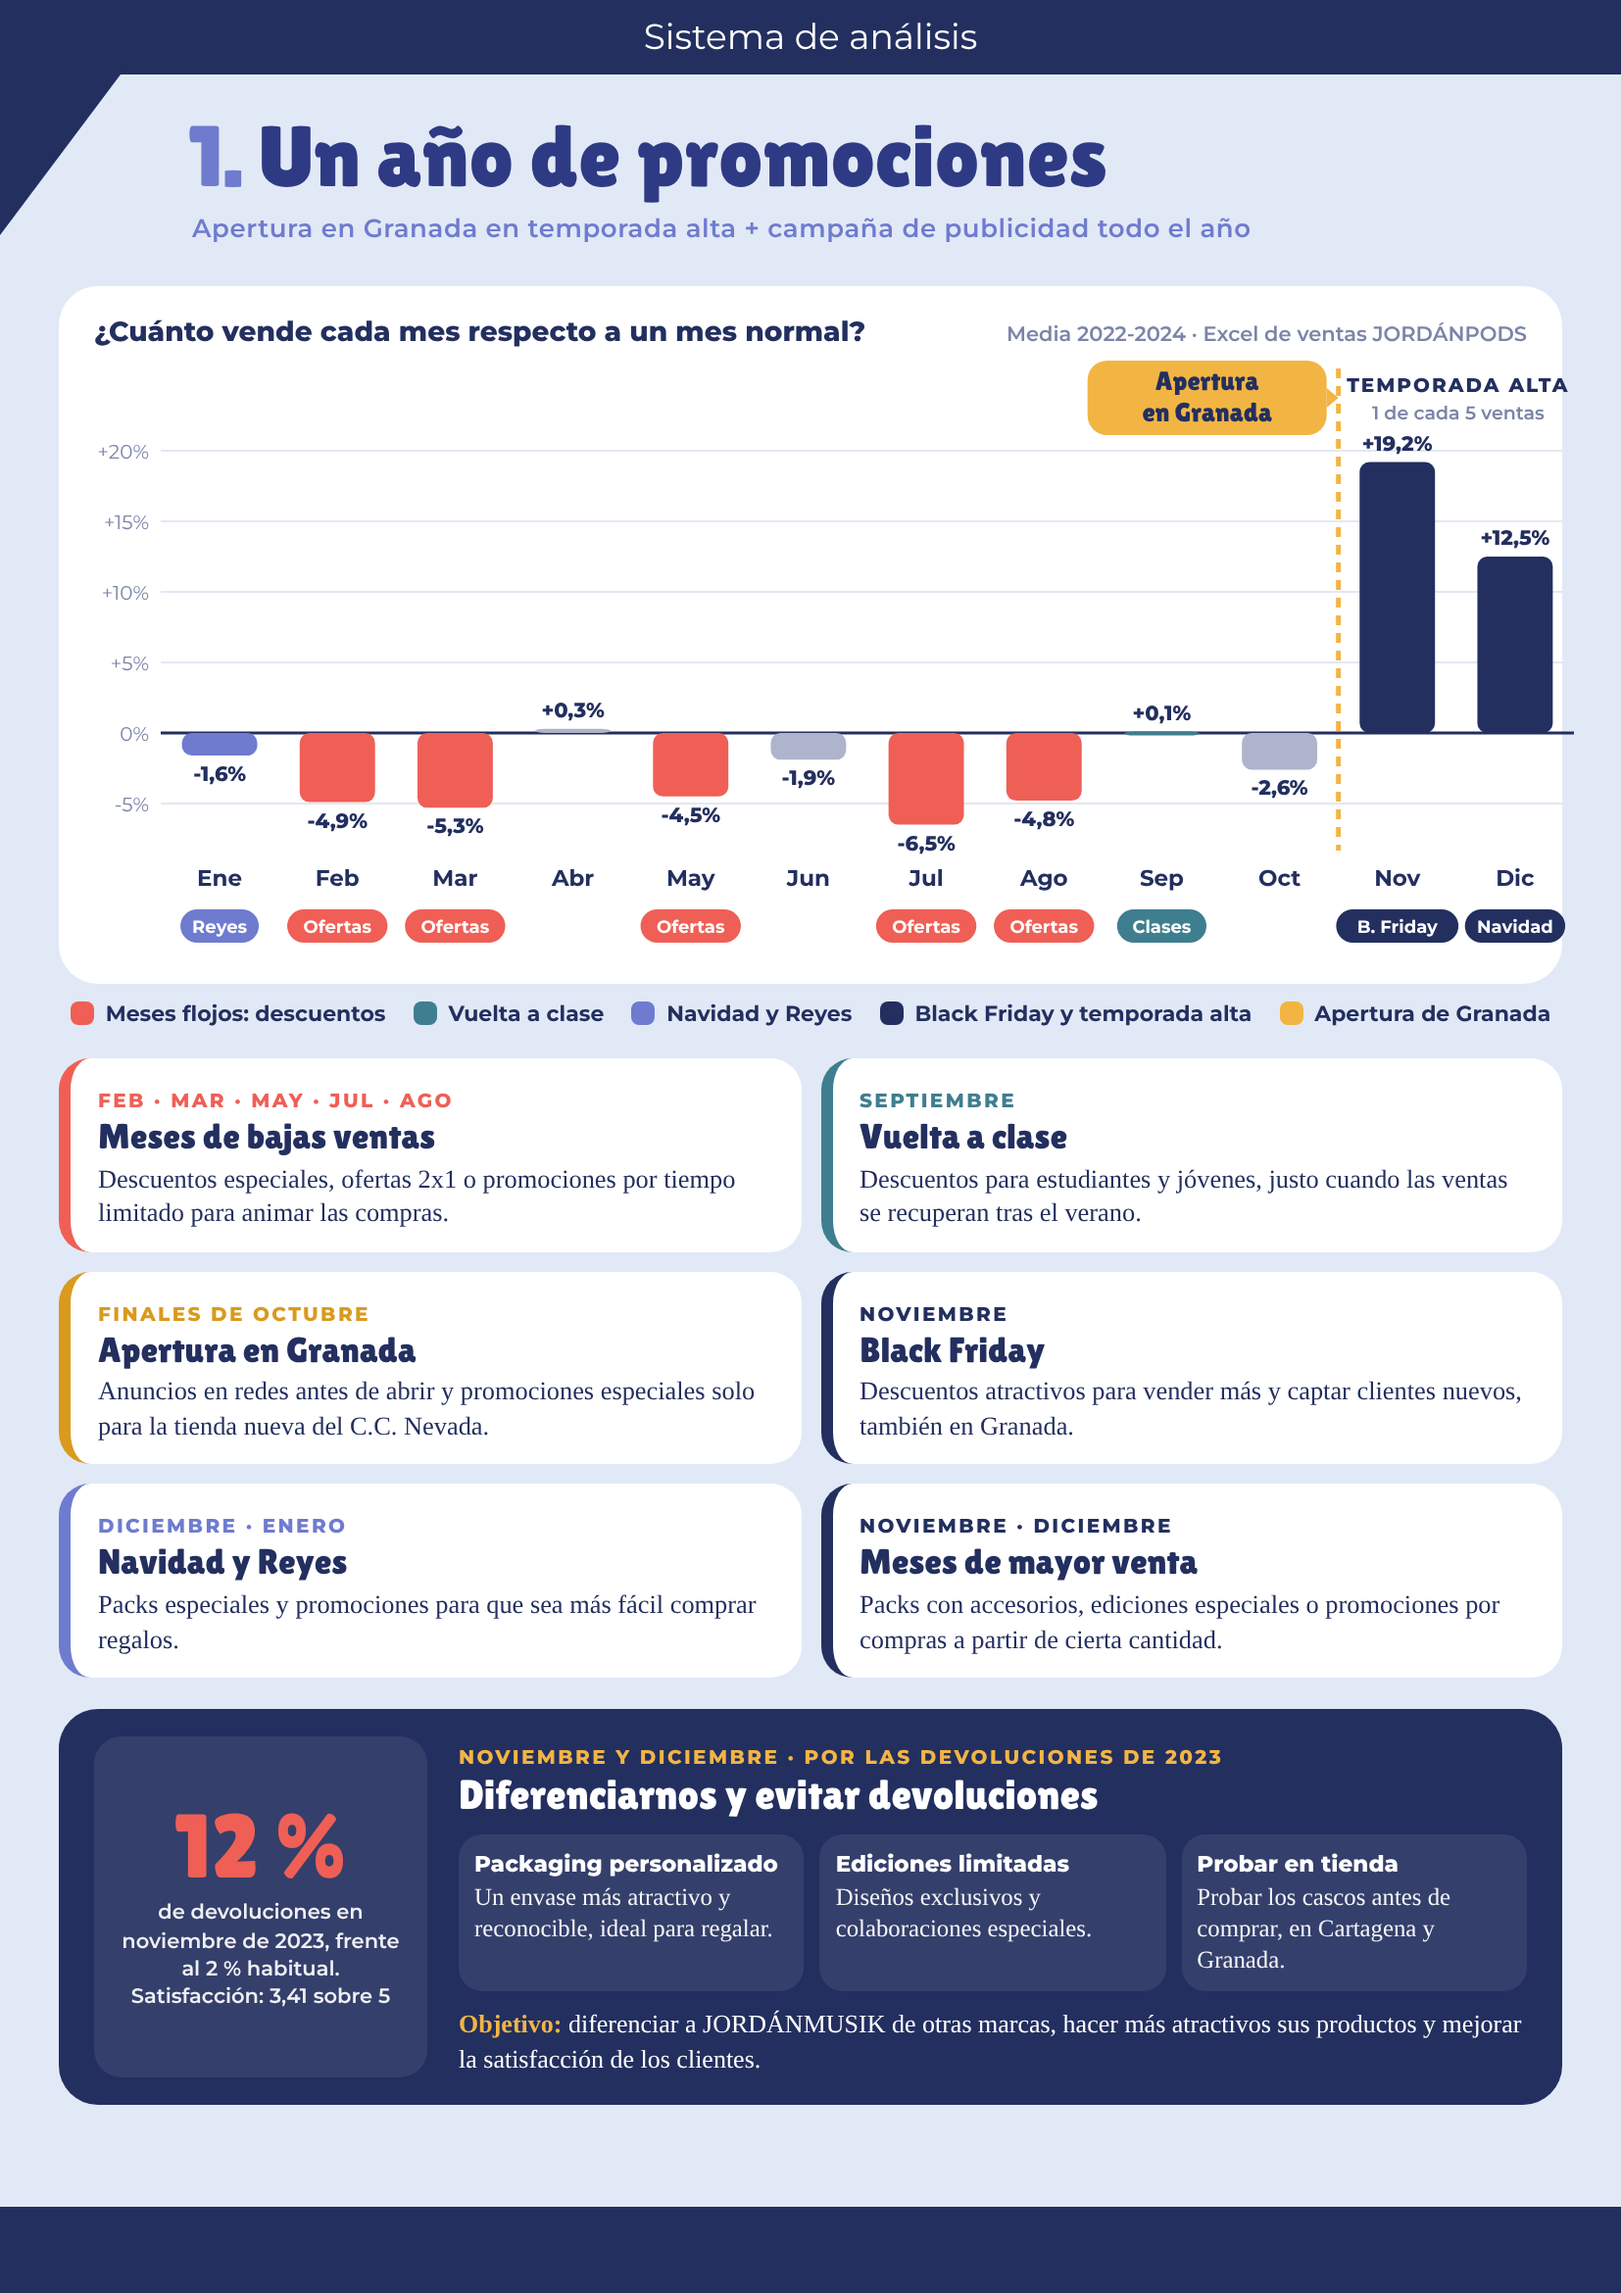
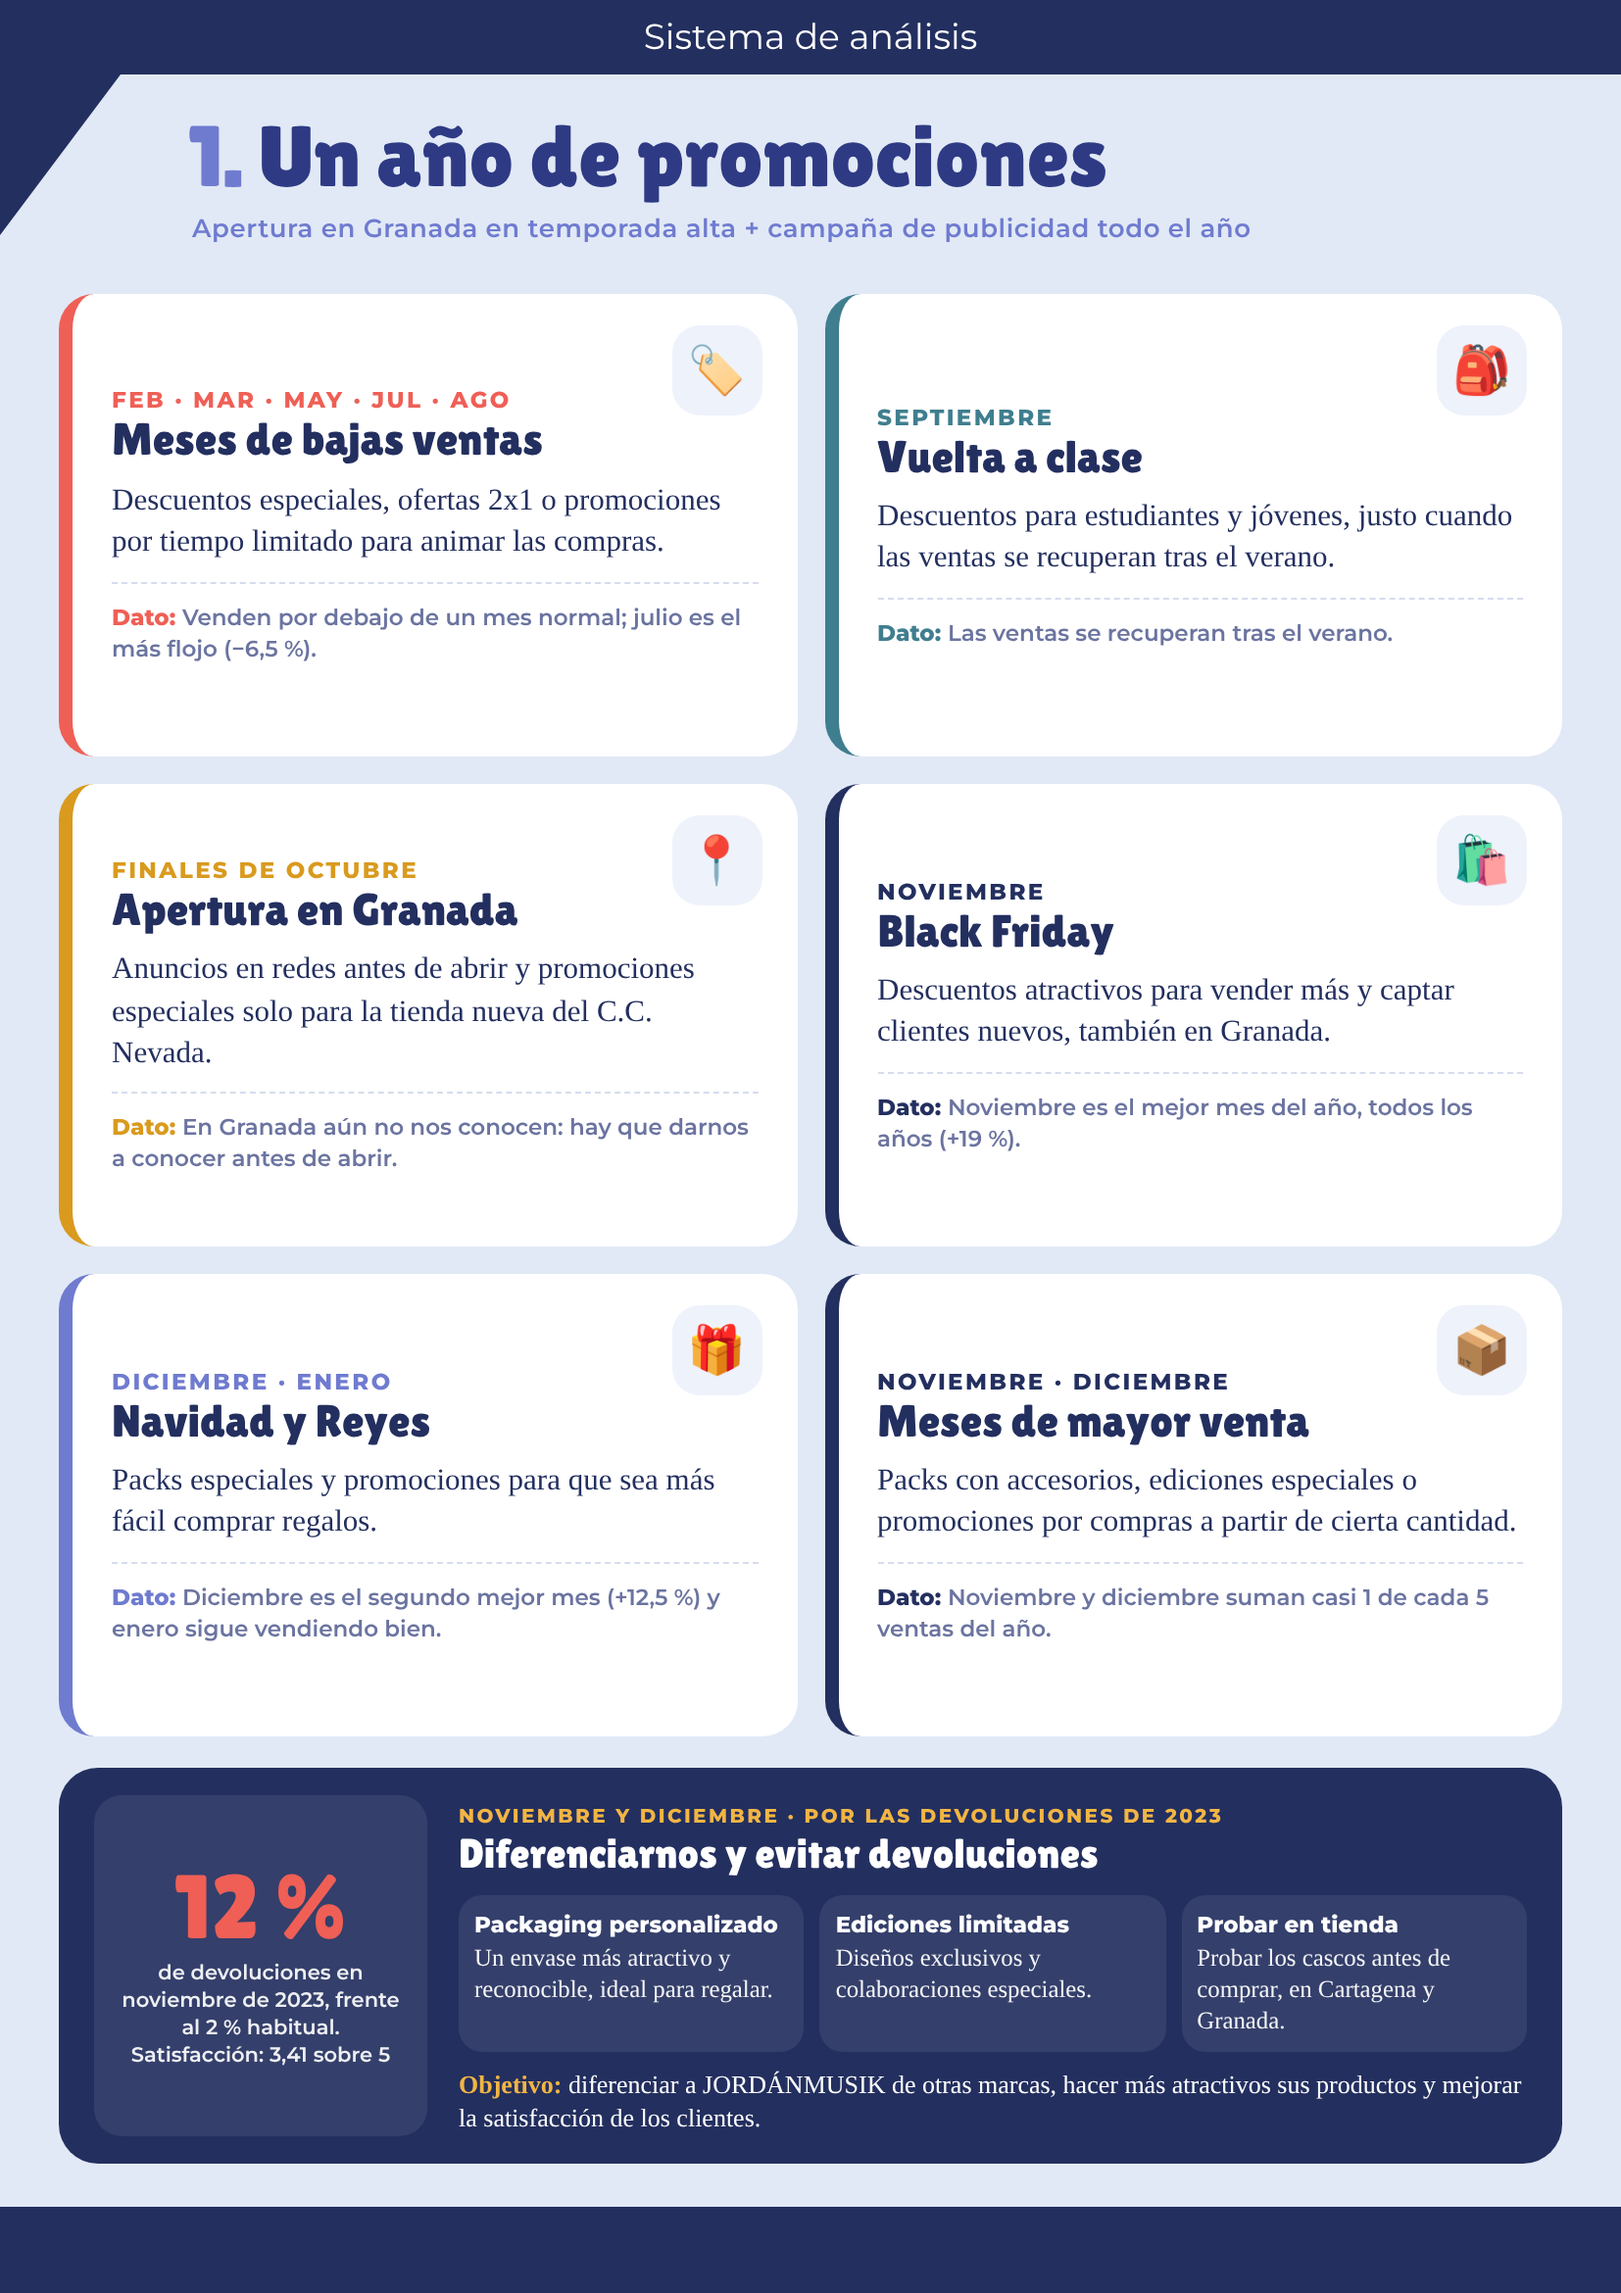
Calendario de promociones sin gráfico, con iconos y datos en cada tarjeta
Claude-Session: https://claude.ai/code/session_01QoRa6H288JEqWWG4NNqZ48

Changed region(s): [[0.0308, 0.1248, 0.9867, 0.9671]]

diff --git a/decisiones/diseno_calendario.html b/decisiones/diseno_calendario.html
@@ -19,12 +19,17 @@ h1 span{color:var(--peri)}
 .legend{position:absolute;left:30px;right:30px;top:510px;display:flex;flex-wrap:wrap;gap:6px 14px;justify-content:center;font-family:Mont;font-size:11px;font-weight:700}
 .legend span{display:inline-flex;align-items:center;gap:6px}
 .legend i{width:12px;height:12px;border-radius:4px;display:inline-block}
-.cards{position:absolute;left:30px;right:30px;top:540px;display:grid;grid-template-columns:1fr 1fr;gap:10px}
-.card{background:#fff;border-radius:16px;padding:11px 14px;border-left:6px solid var(--c);min-height:0}
-.card .k{font-family:Mont;font-size:10px;font-weight:800;letter-spacing:1.2px;text-transform:uppercase;color:var(--c)}
-.card b{display:block;font-family:Lilita;font-weight:400;font-size:18px;line-height:1.1;margin-top:1px}
-.card p{font-size:13.2px;line-height:1.32;margin-top:3px}
-.dif{position:absolute;left:30px;right:30px;top:872px;background:var(--navy);color:#fff;border-radius:20px;padding:14px 18px;display:grid;grid-template-columns:170px 1fr;gap:16px}
+.cuerpo{position:absolute;left:30px;right:30px;top:150px;bottom:66px;display:flex;flex-direction:column;gap:16px}
+.cards{flex:1;display:grid;grid-template-columns:1fr 1fr;grid-auto-rows:1fr;gap:14px}
+.card{background:#fff;border-radius:18px;padding:18px 20px;border-left:7px solid var(--c);display:flex;flex-direction:column;justify-content:center}
+.card{position:relative}
+.card .ico{position:absolute;right:18px;top:16px;width:46px;height:46px;border-radius:14px;background:#EEF2FB;display:flex;align-items:center;justify-content:center;font-size:24px}
+.card .dato{font-family:Mont;font-size:11.5px;font-weight:600;color:#6b74a0;margin-top:10px;padding-top:9px;border-top:1px dashed #d6dcee;line-height:1.4}
+.card .dato::before{content:"Dato: ";font-weight:800;color:var(--c)}
+.card .k{font-family:Mont;font-size:11.5px;font-weight:800;letter-spacing:1.2px;text-transform:uppercase;color:var(--c)}
+.card b{display:block;font-family:Lilita;font-weight:400;font-size:23px;line-height:1.1;margin-top:1px}
+.card p{font-size:15.5px;line-height:1.38;margin-top:6px}
+.dif{flex:none;background:var(--navy);color:#fff;border-radius:20px;padding:14px 18px;display:grid;grid-template-columns:170px 1fr;gap:16px}
 .dif .stat{background:#ffffff14;border-radius:14px;padding:10px;text-align:center;display:flex;flex-direction:column;justify-content:center}
 .dif .stat .v{font-family:Lilita;font-size:46px;line-height:1;color:var(--coral)}
 .dif .stat small{font-family:Mont;font-size:10.5px;font-weight:600;line-height:1.35;margin-top:4px;opacity:.92}
@@ -41,25 +46,13 @@ h1 span{color:var(--peri)}
 <h1><span>1.</span> Un año de promociones</h1>
 <div class="sub">Apertura en Granada en temporada alta + campaña de publicidad todo el año</div>
 
-<div class="chart">
- <div class="h"><b>¿Cuánto vende cada mes respecto a un mes normal?</b><small>Media 2022-2024 · Excel de ventas JORDÁNPODS</small></div>
- <svg id="svg" width="755" height="306" viewBox="0 0 755 306"></svg>
-</div>
-<div class="legend">
- <span><i style="background:#EF5F56"></i>Meses flojos: descuentos</span>
- <span><i style="background:#3F7E8F"></i>Vuelta a clase</span>
- <span><i style="background:#6F7BCF"></i>Navidad y Reyes</span>
- <span><i style="background:#232F5F"></i>Black Friday y temporada alta</span>
- <span><i style="background:#F2B544"></i>Apertura de Granada</span>
-</div>
-
-<div class="cards">
- <div class="card" style="--c:#EF5F56"><span class="k">Feb · Mar · May · Jul · Ago</span><b>Meses de bajas ventas</b><p>Descuentos especiales, ofertas 2x1 o promociones por tiempo limitado para animar las compras.</p></div>
- <div class="card" style="--c:#3F7E8F"><span class="k">Septiembre</span><b>Vuelta a clase</b><p>Descuentos para estudiantes y jóvenes, justo cuando las ventas se recuperan tras el verano.</p></div>
- <div class="card" style="--c:#D99A1E"><span class="k">Finales de octubre</span><b>Apertura en Granada</b><p>Anuncios en redes antes de abrir y promociones especiales solo para la tienda nueva del C.C. Nevada.</p></div>
- <div class="card" style="--c:#232F5F"><span class="k">Noviembre</span><b>Black Friday</b><p>Descuentos atractivos para vender más y captar clientes nuevos, también en Granada.</p></div>
- <div class="card" style="--c:#6F7BCF"><span class="k">Diciembre · Enero</span><b>Navidad y Reyes</b><p>Packs especiales y promociones para que sea más fácil comprar regalos.</p></div>
- <div class="card" style="--c:#232F5F"><span class="k">Noviembre · Diciembre</span><b>Meses de mayor venta</b><p>Packs con accesorios, ediciones especiales o promociones por compras a partir de cierta cantidad.</p></div>
+<div class="cuerpo"><div class="cards">
+ <div class="card" style="--c:#EF5F56"><span class="k">Feb · Mar · May · Jul · Ago</span><span class="ico">🏷</span><b>Meses de bajas ventas</b><p>Descuentos especiales, ofertas 2x1 o promociones por tiempo limitado para animar las compras.</p><p class="dato">Venden por debajo de un mes normal; julio es el más flojo (−6,5 %).</p></div>
+ <div class="card" style="--c:#3F7E8F"><span class="k">Septiembre</span><span class="ico">🎒</span><b>Vuelta a clase</b><p>Descuentos para estudiantes y jóvenes, justo cuando las ventas se recuperan tras el verano.</p><p class="dato">Las ventas se recuperan tras el verano.</p></div>
+ <div class="card" style="--c:#D99A1E"><span class="k">Finales de octubre</span><span class="ico">📍</span><b>Apertura en Granada</b><p>Anuncios en redes antes de abrir y promociones especiales solo para la tienda nueva del C.C. Nevada.</p><p class="dato">En Granada aún no nos conocen: hay que darnos a conocer antes de abrir.</p></div>
+ <div class="card" style="--c:#232F5F"><span class="k">Noviembre</span><span class="ico">🛍</span><b>Black Friday</b><p>Descuentos atractivos para vender más y captar clientes nuevos, también en Granada.</p><p class="dato">Noviembre es el mejor mes del año, todos los años (+19 %).</p></div>
+ <div class="card" style="--c:#6F7BCF"><span class="k">Diciembre · Enero</span><span class="ico">🎁</span><b>Navidad y Reyes</b><p>Packs especiales y promociones para que sea más fácil comprar regalos.</p><p class="dato">Diciembre es el segundo mejor mes (+12,5 %) y enero sigue vendiendo bien.</p></div>
+ <div class="card" style="--c:#232F5F"><span class="k">Noviembre · Diciembre</span><span class="ico">📦</span><b>Meses de mayor venta</b><p>Packs con accesorios, ediciones especiales o promociones por compras a partir de cierta cantidad.</p><p class="dato">Noviembre y diciembre suman casi 1 de cada 5 ventas del año.</p></div>
 </div>
 
 <div class="dif">
@@ -75,29 +68,7 @@ h1 span{color:var(--peri)}
   <p class="obj"><b>Objetivo:</b> diferenciar a JORDÁNMUSIK de otras marcas, hacer más atractivos sus productos y mejorar la satisfacción de los clientes.</p>
  </div>
 </div>
-<div class="foot"></div>
+</div><div class="foot"></div>
 
-<script>
-const V=[-1.6,-4.9,-5.3,0.3,-4.5,-1.9,-6.5,-4.8,0.1,-2.6,19.2,12.5];
-const M=["Ene","Feb","Mar","Abr","May","Jun","Jul","Ago","Sep","Oct","Nov","Dic"];
-const C=["#6F7BCF","#EF5F56","#EF5F56","#AEB4CC","#EF5F56","#AEB4CC","#EF5F56","#EF5F56","#3F7E8F","#AEB4CC","#232F5F","#232F5F"];
-const TAG=["Reyes","Ofertas","Ofertas","","Ofertas","","Ofertas","Ofertas","Clases","","B. Friday","Navidad"];
-const W=755,left=34,colW=(W-left)/12,base=196,k=7.2; // 1 % = 7,2 px
-let s='';
-// grid lines
-for(const g of [-5,0,5,10,15,20]){const y=base-g*k;s+=`<line x1="${left}" x2="${W}" y1="${y}" y2="${y}" stroke="${g===0?'#232F5F':'#E3E7F3'}" stroke-width="${g===0?1.5:1}"/><text x="${left-6}" y="${y+4}" text-anchor="end" font-family="Mont" font-size="10" fill="#7b84a8">${g>0?'+':''}${g}%</text>`;}
-V.forEach((v,i)=>{const x=left+i*colW+colW*0.18,w=colW*0.64,h=Math.abs(v)*k,y=v>=0?base-h:base;
- s+=`<rect x="${x}" y="${y}" width="${w}" height="${Math.max(h,2)}" rx="5" fill="${C[i]}"/>`;
- const ty=v>=0?y-6:y+h+13; s+=`<text x="${x+w/2}" y="${ty}" text-anchor="middle" font-family="Mont" font-weight="800" font-size="10.5" fill="#232F5F">${v>0?'+':''}${String(v).replace('.',',')}%</text>`;
- s+=`<text x="${x+w/2}" y="${base+78}" text-anchor="middle" font-family="Mont" font-weight="700" font-size="11.5" fill="#232F5F">${M[i]}</text>`;
- if(TAG[i]){const tw=TAG[i].length*5.6+12;const tx=x+w/2-tw/2;const yy=base+90; s+=`<rect x="${tx}" y="${yy}" width="${tw}" height="17" rx="8.5" fill="${C[i]}"/><text x="${x+w/2}" y="${yy+12}" text-anchor="middle" font-family="Mont" font-weight="700" font-size="9" fill="#fff">${TAG[i]}</text>`;}
-});
-// Granada flag between Oct and Nov
-const gx=left+10*colW; s+=`<line x1="${gx}" x2="${gx}" y1="10" y2="${base+60}" stroke="#F2B544" stroke-width="2.5" stroke-dasharray="5 4"/>`;
-s+=`<rect x="${gx-128}" y="6" width="122" height="38" rx="10" fill="#F2B544"/><text x="${gx-67}" y="21" text-anchor="middle" font-family="Lilita" font-size="13.5" fill="#232F5F">Apertura</text><text x="${gx-67}" y="37" text-anchor="middle" font-family="Lilita" font-size="13.5" fill="#232F5F">en Granada</text>`;
-s+=`<polygon points="${gx-6},20 ${gx},25 ${gx-6},30" fill="#F2B544"/>`;
-// temporada alta bracket
-const tx1=left+10*colW+4,tx2=W-2; s+=`<text x="${(tx1+tx2)/2}" y="22" text-anchor="middle" font-family="Mont" font-weight="800" font-size="10" fill="#232F5F" letter-spacing="1">TEMPORADA ALTA</text><text x="${(tx1+tx2)/2}" y="36" text-anchor="middle" font-family="Mont" font-weight="600" font-size="9.5" fill="#7b84a8">1 de cada 5 ventas</text>`;
-document.getElementById('svg').innerHTML=s;
-</script>
+
 </body></html>
